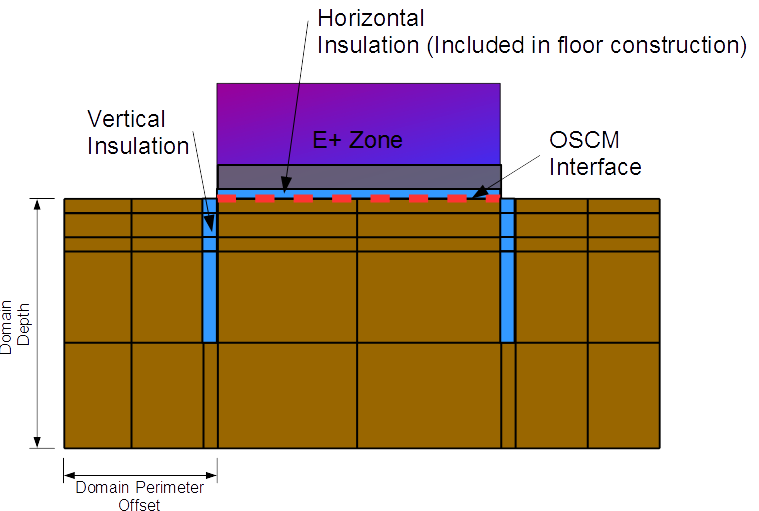
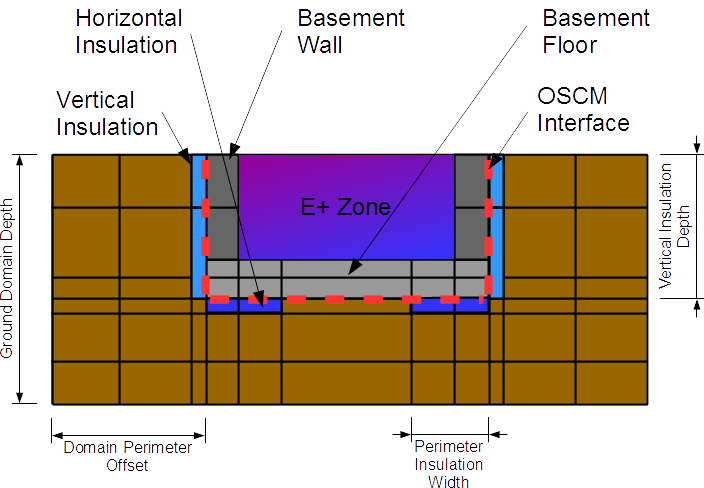
Updating docs for grounddomain changes.

diff --git a/doc/src/docs/InputOutputReference/01a-InputOutputReference.md b/doc/src/docs/InputOutputReference/01a-InputOutputReference.md
@@ -2729,21 +2729,17 @@ An IDF example:
 
 ### Site:GroundDomain:Slab
 
-This section documents the input object used to simulate ground coupled heat transfer with horizontal building surfaces within EnergyPlus. Horizontal ground surfaces within EnergyPlus interact with the Site:GroundDomain object by utilizing the SurfaceProperty:OtherSideConditionsModel object. By utilizing this object, multiple horizontal surfaces can be coupled to the same Site:GroundDomain object. Each horizontal surface may also have its unique ground domain, however, runtime will be adversely affected.
+The Site:GroundDomainSlab object is used to simulate ground heat transfer interaction with the zone floor. Horizontal ground surfaces within EnergyPlus interact with the Site:GroundDomain object by utilizing the SurfaceProperty:OtherSideConditionsModel object. By utilizing the other side conditions model boundary condition, multiple horizontal surfaces can be coupled to the same Site:GroundDomain:Slab object. Each horizontal surface may also have its unique ground domain, however, runtime will be adversely affected since an independent ground domain would need to be created. The total area of the number of surfaces connected to each Site:GroundDomain:Slab object is used to create a rectangular slab with equivalent surface area and with aspect ratio as specified in the input. For non-rectangular geometry, users should try matching the Area/Perimeter (A/P) ratio of their surfaces to the rectancular slab surface. A/P can be converted into the aspect ratio by the following formula.
 
-Generally, there are two scenarios which Site:GroundDomain is equipped to model: in-grade slabs, and on-grade slabs.
+<div>\mbox{Aspect Ratio} = \frac{P+\sqrt{P^2-16 A}}{P-\sqrt{P^2-16 A}}</div>
+
+The model is able simulate in-grade and on-grade slab constructions. For both construction types, the FloorConstruction object for the zone floor must include a thin layer of the floor material with the outside boundary condition (other side condition model) matching the OSCM name in the Site:GroundDomain:Slab object. This could be additional floor construction that exists above the slab, or a thin layer of the slab material itself. Horizontal and vertical insulation are modeled by the GroundDomain. Horizontal insulation can be modeled as covering the full horizontal surface, or it can be limited to the perimeter regions only. Vertical insulation can be specified from the surface down to the use specified depth. An example of this can be seen in the figure below.
+
+Ground domain boundary conditions are set by the Site:GroundTemperature:Undisturbed model specified in the object. The ground surface heat balance includes evapotranspiration, convection, and solar radiation. Snow cover, rain fall, moisture tranport are not handled.
 
 ![](media/image012.png)
 
-Figure 7In-grade configuration.
-
-The in-grade slab option can be used to simulate situations when the upper slab surface is near the ground surface level. For this situation, slab’s upper surface must interact with the zone via an OSCM boundary. Due to this, the FloorConstruction object for the zone floor must include a thin layer of the upper floor material. Horizontal and vertical insulation are modeled by the GroundDomain in this scenario. Horizontal insulation can be modeled as covering the full horizontal surface, or it can be limited to the perimeter regions only. In the latter case, the perimeter insulation width must be specified.
-
-![](media/image013.png)
-
-Figure 8 On-grade configuration
-
-The on-grade slab option can be used to simulate situations when the lower slab surface is near the ground surface level. In this situation, the entire floor must be included within the floor construction object. Vertical insulation is modeled by the GroundDomain in this scenario.  Horizontal insulation can only be modeled as covering the full horizontal surface.
+Figure: Ground Domain Configuration.
 
 #### Field: Name
 
@@ -2755,7 +2751,7 @@ Numeric field used to determine the depth of the simulation domain, in meters.
 
 #### Field: Aspect Ratio
 
-Numeric field used to define the height to width ratio of the slab.
+Numeric field used to define the length to width ratio of the slab.
 
 #### Field: Perimeter Offset
 
@@ -2781,17 +2777,13 @@ A nominal value of soil moisture content to be used when evaluating soil thermal
 
 A nominal value of soil moisture content when the soil is saturated, this is used in evaluating thermal properties of freezing soil.
 
-#### Field: Kusuda-Achebach Average Surface Temperature
+#### Field: Type of Undisturbed Ground Temperature Object
 
-The annual average surface temperature to be applied to the Kusuda-Achenbach farfield boundary temperature correlation, in °C
+The type of undisturbed ground temperature object used to determine ground temperature for the farfield boundary conditions.
 
-#### Field: Kusuda-Achebach Average Amplitude of Surface Temperature
+#### Field: Name of Undisturbed Ground Temperature Object
 
-The annual mean surface temperature variation from average used in determining the farfield boundary conditions.
-
-#### Field: Kusuda-Achenbach Phase Shift of Minimum Surface Temperature
-
-The phase shift of minimum surface temperature, or the day of the year when the minimum surface temperature occurs.
+The name of the undisturbed ground temperature object used to determine ground temperature for the farfield boundary conditions.
 
 #### Field: Evapotranspiration Ground Cover Parameter
 
@@ -2837,6 +2829,26 @@ Name of material object representing the vertical slab insulation. Optional argu
 
 Numeric field indicates the depth measured in meters from the ground surface to which the vertical perimeter insulation extends. Valid range from &gt; Slab Thickness to &lt; Domain Depth.
 
+#### Field: X-Direction Mesh Density Parameter
+
+This numeric integer field represents the number of cells to be placed between any two “domain partitions” during mesh development.  A domain partition may be thought of as a basement wall/floor, or a pipe.  Once these components are laid out in the domain, this field number of cells are placed between the partitions.  Further information on this is found in the engineering reference manual.
+
+#### Field: Y-Direction Mesh Density Parameter
+
+Same as previous.
+
+#### Field: Z-Direction Mesh Density Parameter
+
+Same as previous.
+
+#### Field: Mesh Type
+
+This alpha field represents the type of mesh to create when placing cells between “domain partitions.”  Two options are available: “uniform” and “geometric.”  For uniform, the cells are placed in the region with all cells having equal size.  For symmetric-geometric, the cells are compressed toward the partitions so that there are more cells on either side of the mesh region.  This can help focus computational intensity on the boundary areas where it is likely more desired.  For symmetric-geometric mesh distribution, the mesh density parameter should be an even number to provide the symmetric condition.
+
+#### Field: Geometric Coefficient
+
+This numeric field represents the compression of cell distribution if the x-direction mesh type is set to “geometric.”  If the mesh type is uniform, this field is not interpreted.  For symmetric geometric, a value in this field equal to 1 would result in a uniform distribution, while a value of 2 would provide a highly skewed distribution.
+
 #### Field: Simulation Timestep
 
 Alpha field indicating whether the domain will update temperatures at each zone timestep, or at hourly intervals. Options include “timestep” and “hourly”.
@@ -2852,12 +2864,11 @@ Site:GroundDomain:Slab,
     1.8,                !- Soil Thermal Conductivity
     3200,               !- Soil Density
     836,                !- Soil Specific Heat
-    30,   !- Soil Moisture Content Volume Fraction
-    50,   !- Soil Moisture Content Volume Fraction at Saturation
-    15.5, !- Kusuda-Achenbach Average Surface Temperature
-    12.8, !- Kusuda-Achenbach Average Amplitude of Surface Temperature
-    17.3, !- Kusuda-Achenbach Phase Shift of Minimum Surface Temperature
-    1,    !- Evapotranspiration Ground Cover Parameter
+    30,                 !- Soil Moisture Content Volume Fraction
+    50,                 !- Soil Moisture Content Volume Fraction at Saturation
+    Site:GroundTemperature:Undisturbed:KusudaAchenbach, !- Type of Undisturbed Ground Temperature Object
+    KATemps,            !- Name of Undisturbed Ground Temperature Object
+    1,                  !- Evapotranspiration Ground Cover Parameter
     GroundCoupledOSCM,      !- Name of Floor Boundary Condition Model
     InGrade,                !- Slab Location (InGrade/OnGrade)
     Slab Material-In-grade, !- Slab Material Name
@@ -2868,37 +2879,12 @@ Site:GroundDomain:Slab,
     Yes,                !- Vertical Insulation
     Slab Insulation,    !- Vertical Insulation Name
     2,                  !- Vertical perimeter insulation depth from surface
-    Hourly;             !- Simulation timestep</td>
-```
-
-And IDF example of an on-grade slab
-
-```idf
-Site:GroundDomain:Slab,
-    OngradeCoupledSlab, !- Name
-    5,                  !- Ground Domain Depth {m}
-    1,                  !- Aspect Ratio
-    5,                  !- Domain Perimeter Offset {m}
-    1.8,                !- Soil Thermal Conductivity {W/m-K}
-    3200,               !- Soil Density {kg/m3}
-    836,                !- Soil Specific Heat {J/kg-K}
-    30,          !- Soil Moisture Content Volume Fraction
-    50,          !- Soil Moisture Content Volume Fraction at Saturation
-    15.5,        !- Kusuda-Achenbach Average Surface Temperature
-    12.8,   !- Kusuda-Achenbach Average Amplitude of Surface Temperature
-    17.3,   !- Kusuda-Achenbach Phase Shift of Minimum Surface Temperature
-    1,           !- Evapotranspiration Ground Cover Parameter
-    GroundCoupledOSCM,  !- Name of Floor Boundary Condition Model
-    OnGrade,            !- Slab Location (InGrade/OnGrade)
-    ,                   !- Slab Material Name
-    ,                   !- Horizontal Insulation (Yes/No)
-    ,                   !- Horizontal Insulation Material Name
-    ,                   !- Full Horizontal or Perimeter Only
-    ,                   !- Perimeter insulation width (m)
-    Yes,                !- Vertical Insulation (Yes/No)
-    Slab Insulation,    !- Vertical Insulation Name
-    2,                  !- Vertical perimeter insulation depth from surface
-    Hourly;             !- Simulation timestep. (Timestep/Hourly)</td>
+    4,                  !- X Direction Mesh Parameter
+    4,                  !- Y Direction Mesh Parameter
+    4,                  !- Z Direction Mesh Parameter
+    geometric,          !- Mesh Type (Uniform/Geometric)
+    1.3,                !- Geometric Coefficient
+    Hourly;             !- Simulation Timestep</td>
 ```
 
 ### Site:GroundDomain Outputs
@@ -2918,9 +2904,11 @@ This is the value of the OthersideConditionModel surface temperature. This is th
 
 ### Site:GroundDomain:Basement
 
-This section documents the input object used to simulate ground coupled heat transfer with underground zones within EnergyPlus. Zone surfaces within EnergyPlus interact with the Site:GroundDomain:Basement object by utilizing the SurfaceProperty:OtherSideConditionsModel object. Two separate OSCM are required for the basement vertical and horizontal surfaces. Vertical wall surfaces will interact with the first OSCM while the horizontal floor surface will interact with the second OSCM. Basement floor and wall surfaces are constructed normally by using the BuildingSurface:Detailed object, with the outside boundary condition being the OtherSideConditionsModel for the basement floor or wall. The outside surface of the wall being the interface between the ground domain and the EnergyPlus zone. Horizontal and vertical ground insulation are simulated by the ground domain, and therefore should not be included in the wall and floor construction objects.
+This section documents the input object used to simulate ground coupled heat transfer with underground zones within EnergyPlus. Zone surfaces within EnergyPlus interact with the Site:GroundDomain:Basement object by utilizing the SurfaceProperty:OtherSideConditionsModel object. Two separate OSCM are required for the basement vertical and horizontal surfaces. Vertical wall surfaces will interact with the first OSCM while the horizontal floor surface will interact with the second OSCM. Basement floor and wall surfaces are constructed normally by using the BuildingSurface:Detailed object, with the outside boundary condition being the OtherSideConditionsModel for the basement floor or wall. The outside surface of the wall being the interface between the ground domain and the EnergyPlus zone. Horizontal and vertical ground insulation are simulated by the ground domain, and therefore should not be included in the wall and floor construction objects. See the figure below.
 
-![](media/image012.png)
+![](media/image013.png)
+
+![](media/image014.png)
 
 Figure: Basement Configuration
 
@@ -2949,8 +2937,8 @@ Site:GroundDomain:Basement,
     Yes,                     !- Basement Wall Vertical Insulation Present(Yes/No)
     Basement Insulation,     !- Basement Wall Vertical Insulation Material Name
     2.5,                     !- Vertical insulation depth from surface (m)
+    4,                       !- Mesh Density Parameter
     Hourly;                  !- Domain Update interval. (Timestep, Hourly)
-    4;                       ! Mesh Density Parameter
 ```
 
 #### Field: Name
@@ -2989,17 +2977,13 @@ A nominal value of soil moisture content to be used when evaluating soil thermal
 
 A nominal value of soil moisture content when the soil is saturated, this is used in evaluating thermal properties of freezing soil.
 
-#### Field: Kusuda-Achebach Average Ground Surface Temperature
+#### Field: Type of Undisturbed Ground Temperature Object
 
-The annual average ground surface temperature to be applied to the Kusuda-Achenbach far-field boundary temperature correlation, in °C. This parameter and the subsequent two parameters may be determined by using the CalcSoilSurfTemp preprocessor; or, it may be determined by including the Site:GroundTemperature:Shallow object in the input. This object is used to provide monthly ground surface temperatures to the simulation. From these temperatures, the model can determine this, and the following two parameters for the simulation. In which case, this field and the following two can be left blank.
+The type of undisturbed ground temperature object used to determine ground temperature for the farfield boundary conditions.
 
-#### Field: Kusuda-Achebach Average Amplitude of Ground Surface Temperature
+#### Field: Name of Undisturbed Ground Temperature Object
 
-The annual mean ground surface temperature variation from average used in determining the far-field boundary conditions, in °C. This parameter, as well as the previous and following parameters may be determined by using the CalcSoilSurfTemp preprocessor; or, it may be determined by including the Site:GroundTemperature:Shallow object in the input. This object is used to provide monthly ground surface temperatures to the simulation. From these temperatures, the model can determine this parameter, as well as the previous and following parameters. In which case, this field, the previous field, and the following field can be left blank.
-
-#### Field: Kusuda-Achenbach Phase Shift of Minimum Ground Surface Temperature
-
-The phase shift of minimum ground surface temperature, or the day of the year when the minimum ground surface temperature occurs. This parameter, as well as the previous two parameters may be determined by using the CalcSoilSurfTemp preprocessor; or, it may be determined by including the Site:GroundTemperature:Shallow object in the input. This object is used to provide monthly ground surface temperatures to the simulation. From these temperatures, the model can determine this parameter, as well as the previous two parameters. In which case, this field, the previous two fields can be left blank.
+The name of the undisturbed ground temperature object used to determine ground temperature for the farfield boundary conditions.
 
 #### Field: Evapotranspiration Ground Cover Parameter
 
@@ -3045,13 +3029,13 @@ Name of material object representing the vertical slab insulation. Optional argu
 
 Numeric field indicates the depth measured in meters from the ground surface to which the vertical perimeter insulation extends. Valid range from > 0 to &lt; Basement Depth.
 
-#### Field: Simulation Timestep
-
-Alpha field indicating whether the domain will update temperatures at each zone timestep, or at hourly intervals. Options include “timestep” and “hourly”.
-
 #### Mesh Density Parameter
 
 Integer field indicating the density of the finite difference ground domain cells between the basement and the far field boundaries. Default value is 4. Total number of ground domain cells, insulation cells, and ground surface cells are indicated as outputs to the eio file.
+
+#### Field: Simulation Timestep
+
+Alpha field indicating whether the domain will update temperatures at each zone timestep, or at hourly intervals. Options include “timestep” and “hourly”.
 
 Site:GroundDomain:Basement Output Variables
 

diff --git a/doc/src/docs/EngineeringReference/03-SurfaceHeatBalance.md b/doc/src/docs/EngineeringReference/03-SurfaceHeatBalance.md
@@ -3957,7 +3957,7 @@ Multiple horizontal surfaces can be coupled to each ground domain object. The mo
 
 #### Boundary Conditions
 
-At the interface surface, the average surface conduction heat flux from all surfaces connected to the ground domain is imposed as a GroundDomain boundary condition at the Surface/GroundDomain interface cells. Far-field temperatures are applied as boundary temperature at the GroundDomain sides and lower surface. The ground temperature profile at the domain sides and lower surface are taken from Kusuda & Achenbach 1965. The correlation requires annual ground surface temperature data.
+At the interface surface, the average surface conduction heat flux from all surfaces connected to the ground domain is imposed as a GroundDomain boundary condition at the Surface/GroundDomain interface cells. Far-field and lower boundary conditions are applied based on the Site:GroundTemperature:Undisturbed: object specified in the input.
 
 Ground surface cells are treated as a heat balance, where long and short wave radiation, conduction, and convection are considered. Evapotranspiration is also considered. The evapotranspiration rate is calculated as a moisture loss by using the Allen et al. (2005) model, and translated into a heat loss by multiplication with the density and latent heat of evaporation of water. The evapotranspiration rate is dependent on the type of vegetation at the surface; the user can vary the surface vegetation from anywhere between a concrete surface and a fairly tall grass (about 7”).
 
@@ -3967,85 +3967,7 @@ Once the ground model has run, the updated cells with zone surface boundary cond
 
 The ground domain is updated at each zone timestep, or hourly as specified by the user. For situations when the ground domain is updated at each timestep, the domain is simulated by applying the surface heat flux boundary conditions from the previous timestep and calculating a new OthersideConditionsModeltemperature. At this point, the surface heat balance algorithms can then take the new outside surface temperatures to update their surface heat fluxes. For situations when the user has elected to have the domain update on an hourly basis, the surface heat balance for each coupled surface is aggregated and passed to the domain as an average surface heat flux from the previous hour, which will then update the outside surface temperatures for the surface heat balance’s next iteration.
 
-Both in-grade and on-grade scenarios are simulated with the GroundDomain object. The key difference being that for in-grade situations, the slab and horizontal insulation are simulated by the ground domain, whereas for the on-grade situations the slab and horizontal insulation must be included in the floor construction object. All possible insulation/slab configurations are seen in Table 18.
-
-#### Mesh Parameter Recommendations 
-
-Table 18. Possible insulation/slab configurations for Site:GroundDomain model.
-
-<table class="table table-striped">
-<tr>
-<th>Situations</th>
-<th>Vert. Ins.</th>
-<th>Horiz Ins. (Full)</th>
-<th>Horiz Ins. (Perim)</th>
-</tr>
-<tr>
-<td rowspan="6">In-Grade</td>
-<td>1</td>
-<td>X</td>
-<td></td>
-<td></td>
-</tr>
-<tr>
-<td>2</td>
-<td>X</td>
-<td>X</td>
-<td></td>
-</tr>
-<tr>
-<td>3</td>
-<td>X</td>
-<td></td>
-<td>X</td>
-</tr>
-<tr>
-<td>4</td>
-<td></td>
-<td></td>
-<td></td>
-</tr>
-<tr>
-<td>5</td>
-<td></td>
-<td>X</td>
-<td></td>
-</tr>
-<tr>
-<td>6</td>
-<td></td>
-<td></td>
-<td>X</td>
-</tr>
-<tr>
-<td rowspan="4">On-Grade</td>
-<td>7</td>
-<td>X</td>
-<td></td>
-<td></td>
-</tr>
-<tr>
-<td>8*</td>
-<td>X</td>
-<td>X</td>
-<td></td>
-</tr>
-<tr>
-<td>9</td>
-<td></td>
-<td></td>
-<td></td>
-</tr>
-<tr>
-<td>10*</td>
-<td></td>
-<td>X</td>
-<td></td>
-</tr>
-</table>
-\* Horizontal insulation must be included in the floor construction
-
-For the slab-in-grade scenarios, a thin surface layer must be included in the floor construction. This can be a very thin layer of the slab or other floor covering materials above the slab. This provides a zone boundary condition for the GroundDomain while still allowing 3-dimensional heat transfer effects to occur within the slab.
+Zone surfaces interact with the Site:GroundDomain:Slab object through the other side conditions model. To do this a surface layer must be included in the floor construciton object which will interact with the ground domain. This can be floor construction above the slab, or a thin layer of the slab material. The rest of the slab as well as horizontal and vertical insulation are simulated by the ground domain object.
 
 #### References
 
@@ -4070,7 +3992,7 @@ Basement wall and floor surfaces are created normally using the BuildingSurface:
 
 #### Boundary Conditions
 
-At the zone interface surfaces, the average surface conduction heat flux from all surfaces connected to the ground domain is imposed as a boundary condition at the Surface/Domain interface cells. Far-field temperatures are applied as boundary temperature at the domain sides and lower surface. The ground temperature profile at the domain sides and lower surface are taken from Kusuda & Achenbach 1965. The correlation requires annual ground surface temperature data. Ground surface temperature data can be determined by using the CalcSoilSurfTemp preprocessor; or, if the user has average monthly ground surface temperature data available, they can use the Site:GroundTemperature:Shallow object to provide the model monthly ground surface temperatures. From that, the model can then determine the ground temperature model parameters for the Kusuda & Achenbach (1965) ground temperature model.
+At the zone interface surfaces, the average surface conduction heat flux from all surfaces connected to the ground domain is imposed as a boundary condition at the Surface/Domain interface cells. Far-field and lower boundary conditions are applied based on the Site:GroundTemperature:Undisturbed: object specified in the input.
 
 Ground surface cells are treated as a heat balance, where long and short wave radiation, conduction, and convection are considered. Evapotranspiration is also considered. The evapotranspiration rate is calculated as a moisture loss by using the Allen et al. (2005) model, and translated into a heat loss by multiplication with the density and latent heat of evaporation of water. The evapotranspiration rate is dependent on the type of vegetation at the surface; the user can vary the surface vegetation from anywhere between a concrete surface and a fairly tall grass (about 7”). The model can be sensitive to variations in this parameter, especially in hot dry climates.
 
